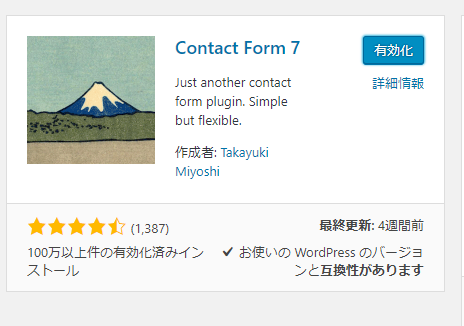
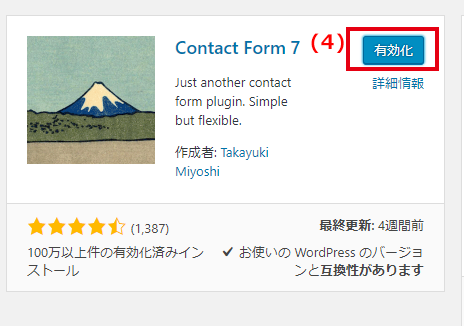
プラグイン追加後の画面追加

Changed region(s): [[0.6638, 0.0613, 0.9655, 0.2147]]

diff --git a/5_plugin/index-1.md b/5_plugin/index-1.md
@@ -17,9 +17,6 @@ title: プラグイン
 
 ![プラグインを追加する]({{ site.baseurl }}/assets/images/plugin02-1.png)
 
-![プラグインを追加する]({{ site.baseurl }}/assets/images/plugin02-2.png)
+![プラグインを有効にする]({{ site.baseurl }}/assets/images/plugin02-2.png)
 
-![プラグインを追加する]({{ site.baseurl }}/assets/images/plugin02-3.png)
-
-![プラグインを追加する]({{ site.baseurl }}/assets/images/plugin02-4.png)
-
+![プラグインが有効になりました]({{ site.baseurl }}/assets/images/plugin02-3.png)
